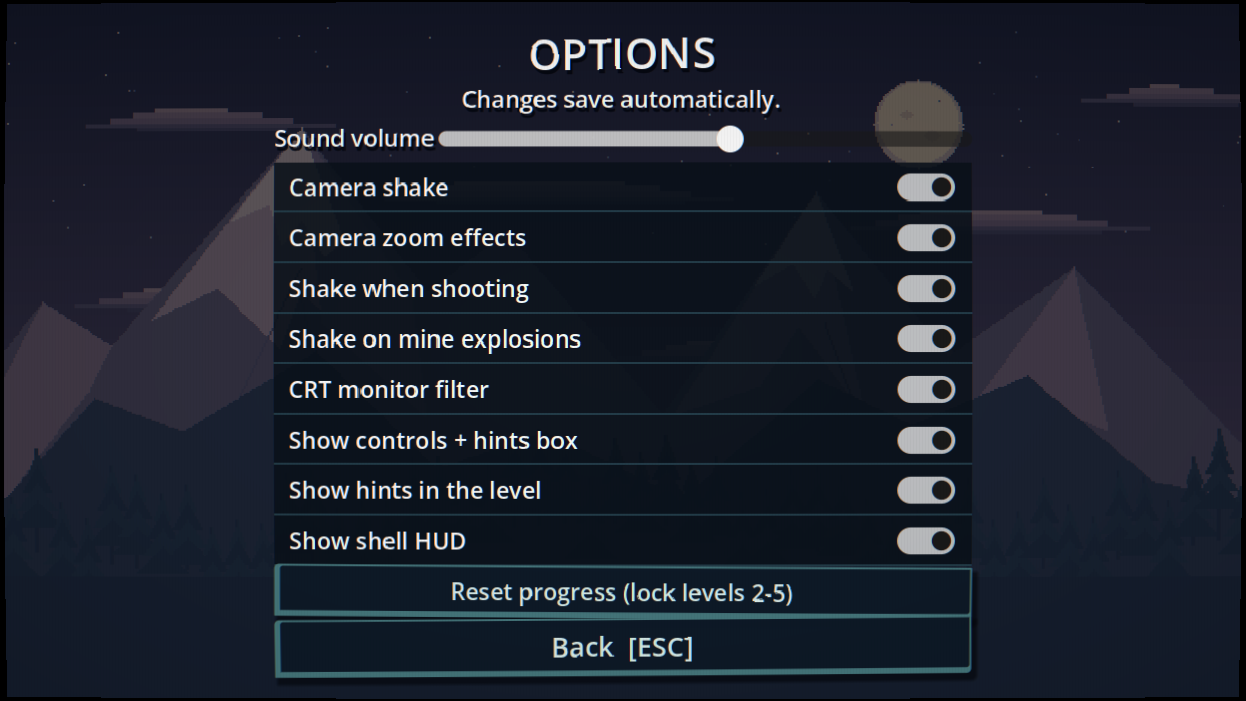
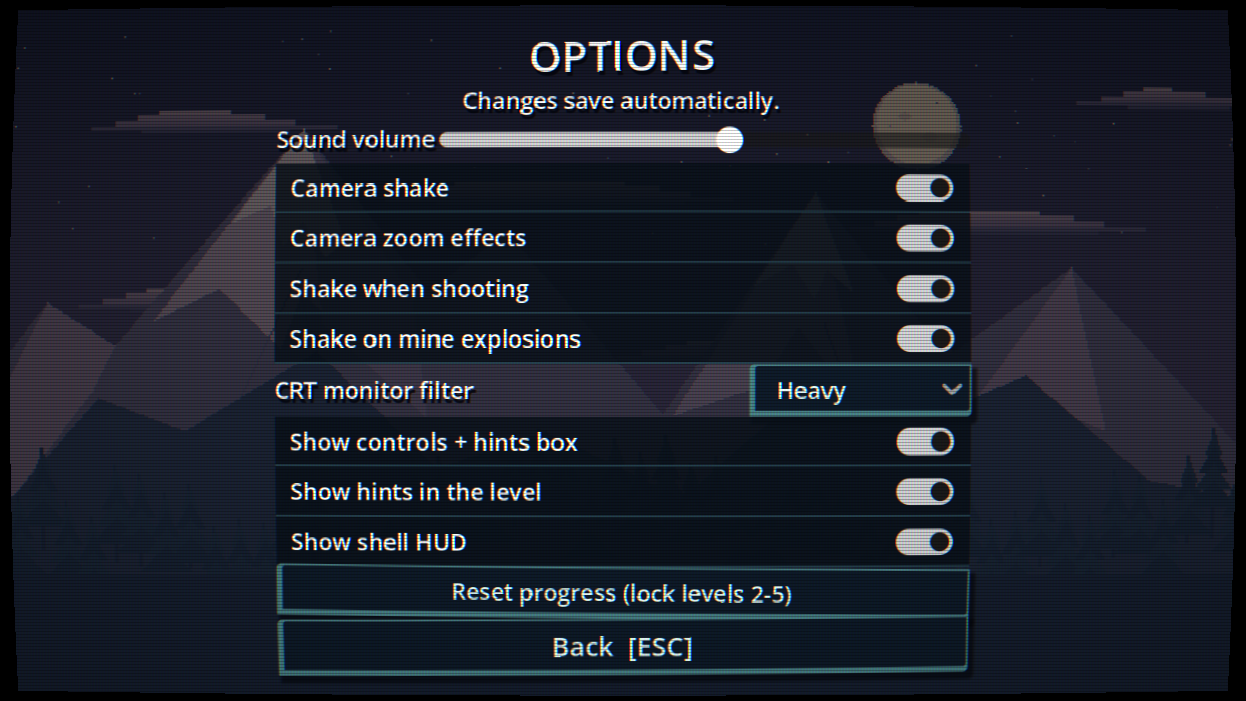
Add CRT display presets and options

diff --git a/docs/VALIDATION.md b/docs/VALIDATION.md
@@ -56,3 +56,7 @@ Godot 4.7.2: 11 dedicated checks passed for high-flight player/ground visibility
 
 ## Smoother platform-height transitions
 Landing camera now blends detected world-space surface heights, caps upward retargeting speed, retains its previous surface across gaps shorter than 0.18 seconds, and waits 0.10 seconds after touchdown before returning to normal. Zoom-in and upward framing recovery are gentler. Rendered Godot 4.7.2 landing-camera suite: 14/14 passed, including higher-platform height blending, bounded frame-to-frame zoom change, short-gap retention, high-flight visibility, and normal landing recovery.
+
+
+## CRT presets
+Off / Light / Heavy selector shared by both Options menus. Light uses the exact original shader; Heavy retains the enhanced shader. Legacy enabled/disabled saves migrate to Heavy/Off. Rendered menu integration passed (18 checks), and separate-process tests verified choosing Light, its shader/selector state, and persistence after relaunch.

diff --git a/README.md b/README.md
@@ -78,3 +78,5 @@ Floating shell pickups restore one shot while airborne, never exceeding two shel
 
 ## Engine version
 Use **Godot 4.7.2 only** for this project. `tools/open_editor.ps1` checks the engine version and opens Shotgun Kid in the 4.7.2 editor. It accepts `-GodotConsole` if the engine is moved. Avoid opening/saving this project through older Godot versions.
+
+CRT Options now offers **Off**, **Light** (the original subtle effect), and **Heavy** (the stronger monitor effect). The selected preset saves automatically and is shared between the main and pause menus.
